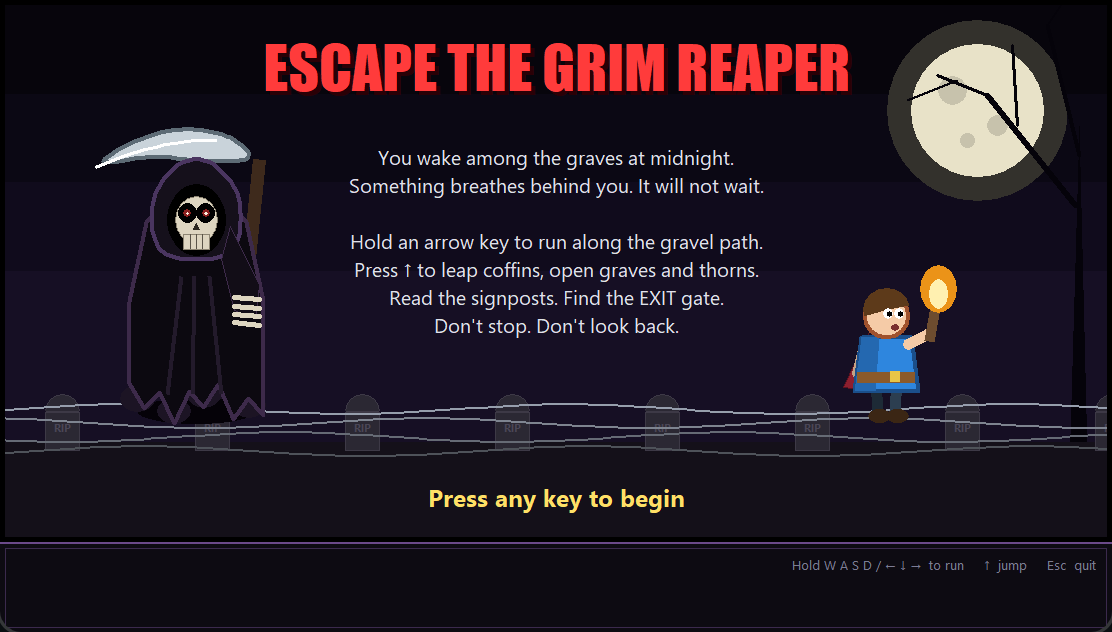
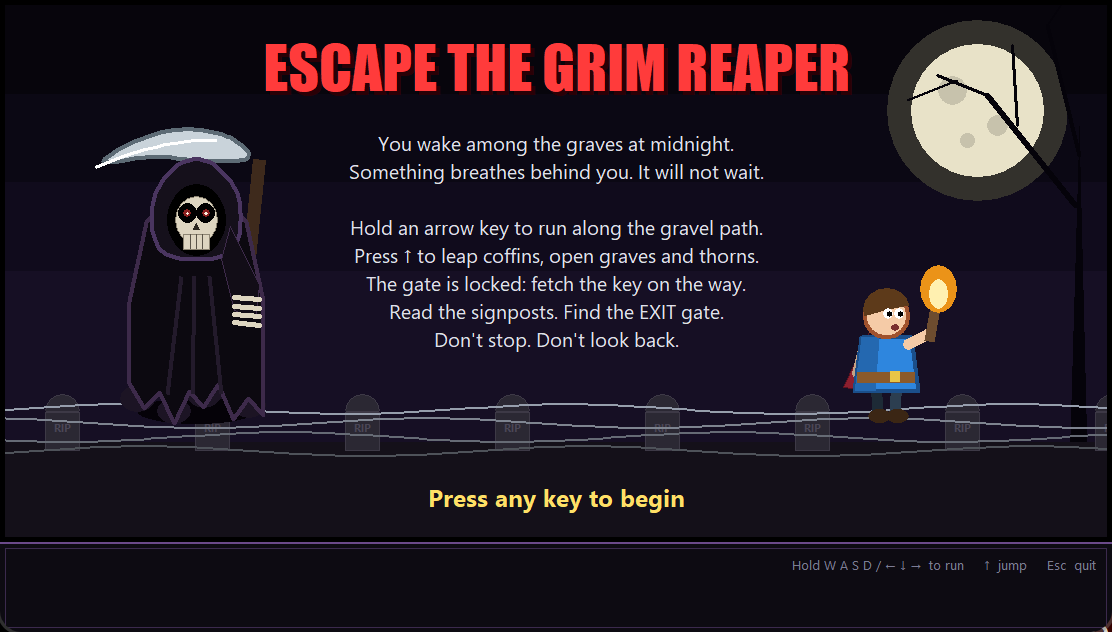
Add decision record 0008 and update README and screenshots for round 6
0008: where the key and the shortcut go and how big they are, and why
the Reaper's pace was eased to 220 ms: the first draft (key 4 deep, a
16-tile shortcut) was simulated and found unfair, because the detour
was fatal after 0.2 s of hesitation and the Reaper took the shortcut
itself, making the "safe" long way a trap.

README: the locked gate and key, the shortcut, the surge, the best time
file; new screenshots of the title screen and the chase with the key.

Changed region(s): [[0.3058, 0.2104, 0.7032, 0.5712], [0.9784, 0.9921, 1.0, 1.0]]

diff --git a/README.md b/README.md
@@ -10,14 +10,18 @@ You wake up at midnight in a fenced graveyard holding a torch, and the Grim Reap
 - **Hold to run.** Hold an arrow key (or W A S D) and you keep running, with no pause between steps. Press the next direction a moment before a bend and you take the corner as soon as it opens.
 - **Leap or fall.** Coffins and fallen headstones block the path, and open graves and thorn bushes lie across it. Press **↑** to leap them. Run into a coffin and you stop; run into an open grave or thorns and you lose a life. An ↑ pressed a moment early still counts.
 - **It doesn't wait.** The Reaper sets off at your first step and glides after you on its own, a little slower than you run. Stop, hesitate, or take a wrong turn, and it closes in. The hearts beat faster and the frame glows red when it's right behind you.
-- **Read the signposts.** Red signposts warn about side paths that are dead ends (*"Wanna get stuck?"*). Green ones point the way.
+- **The gate is locked.** Fetch the golden key from the little yard at the second bend first. Going in and out means running toward the Reaper for a moment, so don't arrive there with it on your heels.
+- **Short way or safe way.** Near the end, a gap leads straight down past a thorn bush: leap it and you save almost a second. Miss, and it costs a life. The long way round has no hazards.
+- **Don't stop.** Stand still, or keep bumping into things, and the Reaper surges to your running speed ("The Reaper quickens!"). Run on for a second and it calms down.
+- **Beat your best.** The game keeps your best time in a small file in your home folder (`~/.escape_grim_reaper.json`) and shows **NEW BEST!** when you beat it.
+- **Read the signposts.** Red signposts warn about side paths that are dead ends (*"Wanna get stuck?"*). Green ones point the way, to the key, and to the shortcut.
 - **Three lives.** Three red hearts show your lives. When the Reaper catches you or a hazard hurts you, a heart turns grey and empty, and **R** puts you back at the start. Lose all three and it's **GAME OVER**.
 
 ![The graveyard: the gravel path, rows of graves, hurdles, and the Reaper on the bend](docs/chase.png)
 
 ## Requirements
 
-Python 3.10 or newer. Nothing else to install to play: graphics use tkinter, which comes with Python. The game is silent.
+Python 3.10 or newer. Nothing else to install to play: graphics use tkinter, which comes with Python. The game is silent. The only file it writes is your best time.
 
 ## Run the game
 
@@ -36,7 +40,7 @@ Options:
 
 | Option | Effect |
 |---|---|
-| `--text` | play inside the terminal instead of a window. This version is turn-based: type `w`/`a`/`s`/`d` + Enter to move, `j` + Enter to jump, `r` + Enter to resume, `q` to quit. The Reaper takes one step after each of yours. |
+| `--text` | play inside the terminal instead of a window. This version is turn-based: type `w`/`a`/`s`/`d` + Enter to move, `j` + Enter to jump, `r` + Enter to resume, `q` to quit. The Reaper takes one step after each of yours. You still need the key (`K`); there is no surge and no saved best time. |
 | `--no-color` | with `--text`: plain text for terminals without colour support |
 
 ## Run the tests
@@ -46,7 +50,7 @@ py -m pip install pytest   # once
 py -m pytest
 ```
 
-Every test is named after the requirement it checks (`test_R1_...` to `test_R15_...`). The window tests open hidden tkinter windows and let time pass by hand. See `problem.md` for the requirements, `spec.md` for how the game meets them, and `docs/decisions/` for the decisions behind it.
+Every test is named after the requirement it checks (`test_R1_...` to `test_R18_...`). The window tests open hidden tkinter windows and let time pass by hand. See `problem.md` for the requirements, `spec.md` for how the game meets them, and `docs/decisions/` for the decisions behind it.
 
 ## Project layout
 
@@ -57,6 +61,7 @@ escape_game/
   game.py       the rules: moves and jumps, the real-time chase clock, lives, win/lose
   gui.py        the game window: the graveyard (drawn once), moving figures, HUD, screens
   render.py     the terminal (--text) version's drawing
+  records.py    the best time, kept in ~/.escape_grim_reaper.json
 tests/          pytest tests, one or more per requirement
 docs/           screenshots and decision records (docs/decisions/)
 ```

diff --git a/docs/decisions/0008-key-yard-and-a-short-shortcut.md b/docs/decisions/0008-key-yard-and-a-short-shortcut.md
@@ -1,0 +1,29 @@
+# 0008 — The key lies in a short yard on the way; the shortcut saves only a few tiles
+
+- **Status:** accepted (2026-11-22, round 6)
+- **Requirements:** R16 (a key to fetch and a choice of ways), R17 (the surge), R13 (the chase must stay fair)
+- **Decided by:** the product owner chose "key in a side yard + a shortcut full of hazards beside a longer, safer way". Claude chose where they go and how big they are (this record), after simulating the chase; the product owner has not reviewed it yet.
+
+## Decision (Y-statement)
+
+In the context of **a real-time chase where the Reaper follows the shortest way to the player and glides over every hazard (decision 0004), on the one-tile path of round 5 (decision 0007)**,
+facing **two problems found by simulating the first draft: (1) a key 4 tiles deep in a side yard meant running back toward the Reaper for 8 moves, so stopping just 0.2 s at each bend got the player caught; and (2) a shortcut that skipped 16 tiles made the "safe" long way a death trap, because the Reaper took the shortcut itself and cut the player off (caught on the long way with only 0.1 s of hesitation)**,
+we decided for **a key 2 tiles into the old family plot at the second bend (gate key detour of 4 moves), a shortcut near the end of lane C that saves only 5 moves (2 against 7, about 0.8 s) past one thorn bush, and the Reaper's normal pace eased from 200 to 220 ms per tile, with the R17 surge at 180 ms**,
+and neglected **(a) the key at the back of the crypt yard beside the gate (a long detour at the very end), (b) a big shortcut between lanes, (c) making the Reaper unable to use the shortcut (a new rule for it), and (d) keeping the 200 ms pace**,
+to achieve **a choice that is real both ways (shortcut 15.6 s with a leap over thorns that costs a life if missed; long way 16.4 s with no hazard, both survivable), a key detour that is tense but fair (stopping 0.3 s at every bend still escapes; 0.4 s is caught in the key yard), and in `--text` a Reaper that is still never closer than 4 steps**,
+accepting that **one of the three warned dead ends became the key yard (two warnings remain, and the R2 test was adapted), the layout tests now have to tell the long way (a loop) from a dead end, and the balance numbers depend on the pace constants and are pinned by `tests/test_chase.py`**.
+
+## Alternatives considered
+
+| Option | Pros | Cons |
+|---|---|---|
+| **Key 2 deep at the second bend; small shortcut; 220 ms pace (chosen)** | Simulated fair; both ways viable; the key detour comes mid-run, when the gap tells whether the player has been quick. | One fewer warned dead end. |
+| Key at the back of the crypt yard by the gate | Dramatic finish. | A long run back toward the Reaper at the very end: either too easy (big lead) or certain death. |
+| Big shortcut between lanes (16 tiles) | Very tempting. | The Reaper uses it too, so the long way loses outright: no real choice. |
+| The Reaper may not use the shortcut | Keeps a big shortcut. | A new rule, and a way to trap the Reaper; it breaks decision 0004's "Death glides over everything". |
+| Keep the 200 ms pace | No change to R13's numbers. | With the key detour and the surge, stopping 0.2 s at a bend was fatal; too harsh. |
+
+## Consequences
+
+- `REAPER_STEP_MS` = 220, `REAPER_SURGE_MS` = 180, `SURGE_AFTER_IDLE_MS` = 250, `CALM_AFTER_RUN_MS` = 1000 in `game.py`.
+- The simulation used for this is `tests/test_chase.py::run_route` (hesitating at every bend), so a change to the layout or the constants shows up as a failing R13/R17 test.
